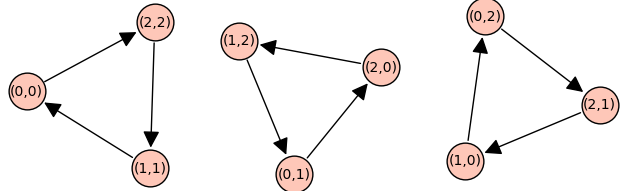
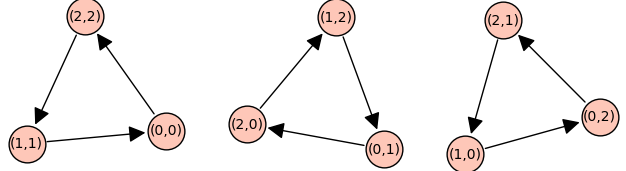
added other standard graph product support and algorithm to check all orientations on a graph for magicness.

diff --git a/main.py b/main.py
@@ -1,6 +1,7 @@
 from magicutils.labeled_graph import LabeledGraph
 from magicutils import product
 from magicutils import graphs
+from magicutils.permutate import GraphLabelPermutator, DiGraphEdgePermutator
 
 
 def visualize(lg, filename):
@@ -24,9 +25,44 @@ new_cyclelg = product.tensor_direct(cyclelg, cyclelg)
 print(f"C_3 \\times C_3 is {"magic" if new_cyclelg.check_magic() else "not magic"}")
 visualize(new_cyclelg, "tensor_direct.png")
 
-# see if the graph1 is magic
+# try out the lexicographic direct product with cycle graphs
+cyclelg = graphs.make_cycle(3)
+new_cyclelg = product.lexicographic_direct(cyclelg, cyclelg)
+print(f"C_3 \\circ C_3] is {"magic" if new_cyclelg.check_magic() else "not magic"}")
+visualize(new_cyclelg, "lexicographic_direct.png")
 
+# try out the strong direct product with cycle graphs
+cyclelg = graphs.make_cycle(3)
+new_cyclelg = product.strong_direct(cyclelg, cyclelg)
+print(f"C_3 \\boxtimes C_3 is {"magic" if new_cyclelg.check_magic() else "not magic"}")
+visualize(new_cyclelg, "strong_direct.png")
+
+# see if graph1 is magic
 lg = graphs.make_graph1()
 
 print(f"graph1 is {"magic" if lg.check_magic() else "not magic"}")
 visualize(lg, "graph1.png")
+
+# try out permutations of cyclclg
+
+lg = graphs.make_cycle(4)
+label_permutator = GraphLabelPermutator(lg.graph)
+found_new_magic_orientation = False
+found_antimagic_orientation = False
+for i, permuted_graph in enumerate(label_permutator):
+    if i == 0:
+        continue
+    permuted_lg = LabeledGraph(permuted_graph, lg.group)
+    is_magic = permuted_lg.check_magic()
+    if is_magic and (not found_new_magic_orientation):
+        found_new_magic_orientation = True
+        print(f"C4 permutation {i} is magic")
+        visualize(permuted_lg, f"C4_permutation_{i}.png")
+    
+    if (not is_magic) and (not found_antimagic_orientation):
+        found_antimagic_orientation = True
+        print(f"C4 permutation {i} is not magic")
+        visualize(permuted_lg, f"C4_permutation_{i}.png")
+    
+    if found_new_magic_orientation and found_antimagic_orientation:
+        break

diff --git a/magicutils/permutate.py b/magicutils/permutate.py
@@ -1,0 +1,31 @@
+import itertools
+
+
+class GraphLabelPermutator:
+    def __init__(self, graph):
+        self.graph = graph
+    
+    def __iter__(self):
+        vertices = self.graph.vertices()
+        for permutation in itertools.permutations(vertices):
+            new_graph = self.graph.copy()
+            for original_vertex, new_vertex in zip(vertices, permutation):
+                label = self.graph.get_vertex(original_vertex)
+                new_graph.set_vertex(new_vertex, label)
+            yield new_graph
+        
+
+    
+class DiGraphEdgePermutator:
+    def __init__(self, graph):
+        self.graph = graph
+
+    def __iter__(self):
+        """"Iterate through all possible ways each edge can be oriented in a simple directed graph."""
+        edges = self.graph.edges(labels=False)
+        for orientations in itertools.product([False,True], repeat=len(edges)):
+            new_graph = self.graph.copy()
+            for reverse_edge, edge in zip(orientations, edges):
+                if reverse_edge is True:
+                    new_graph.reverse_edge(edge[0], edge[1])
+            yield new_graph

diff --git a/magicutils/product.py b/magicutils/product.py
@@ -32,3 +32,10 @@ def tensor_direct(lg1, lg2):
     graph_product = lambda g1, g2: g1.tensor_product(g2)
     return x_direct(graph_product, lg1, lg2)
 
+def lexicographic_direct(lg1, lg2):
+    graph_product = lambda g1, g2: g1.lexicographic_product(g2)
+    return x_direct(graph_product, lg1, lg2)
+
+def strong_direct(lg1, lg2):
+    graph_product = lambda g1, g2: g1.strong_product(g2)
+    return x_direct(graph_product, lg1, lg2)
